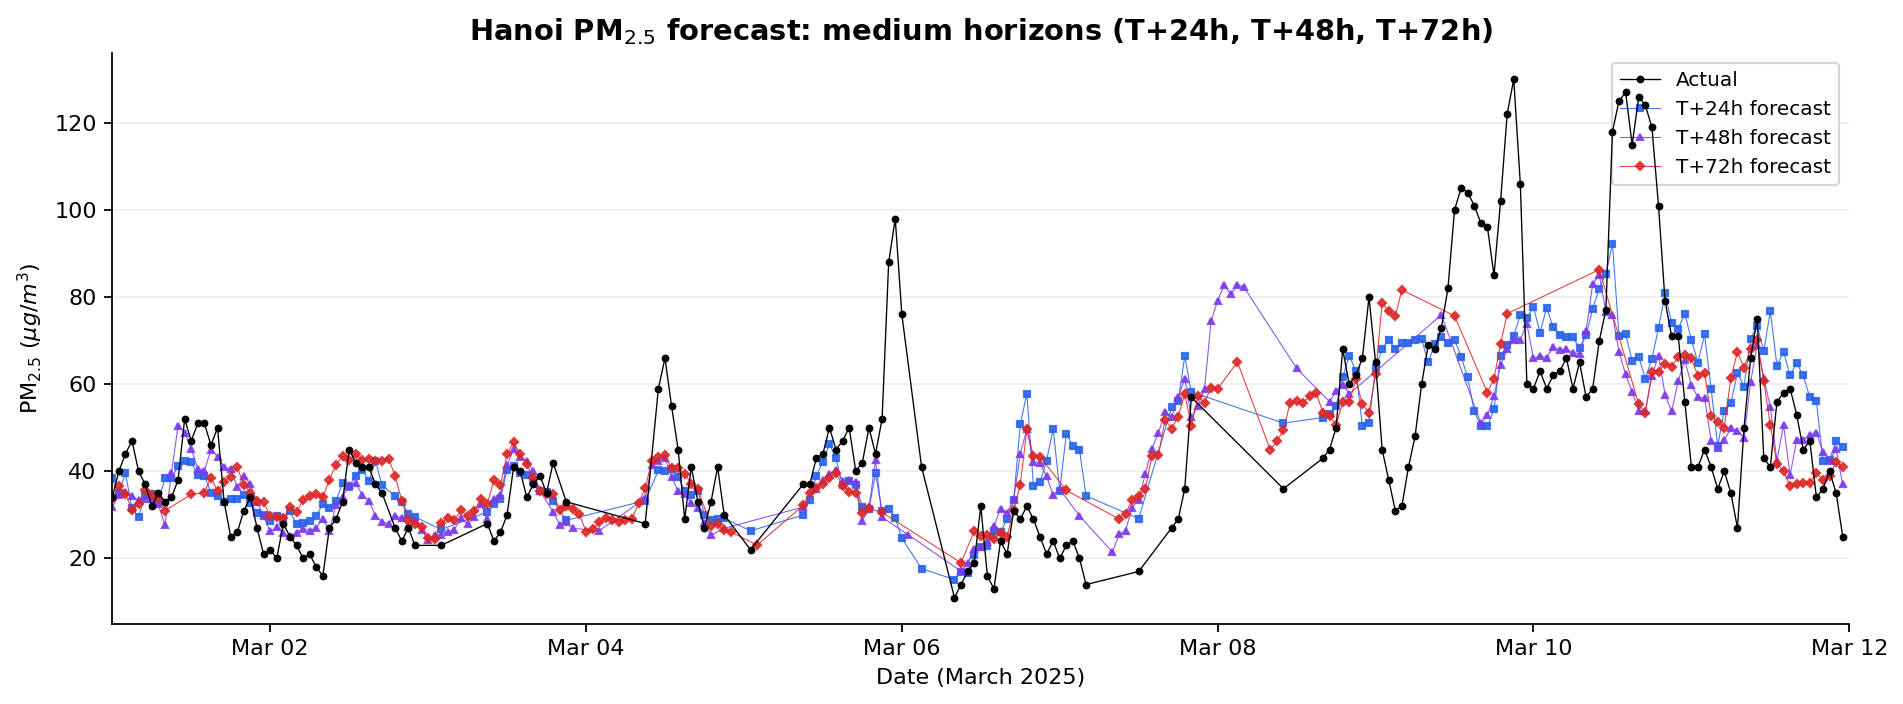
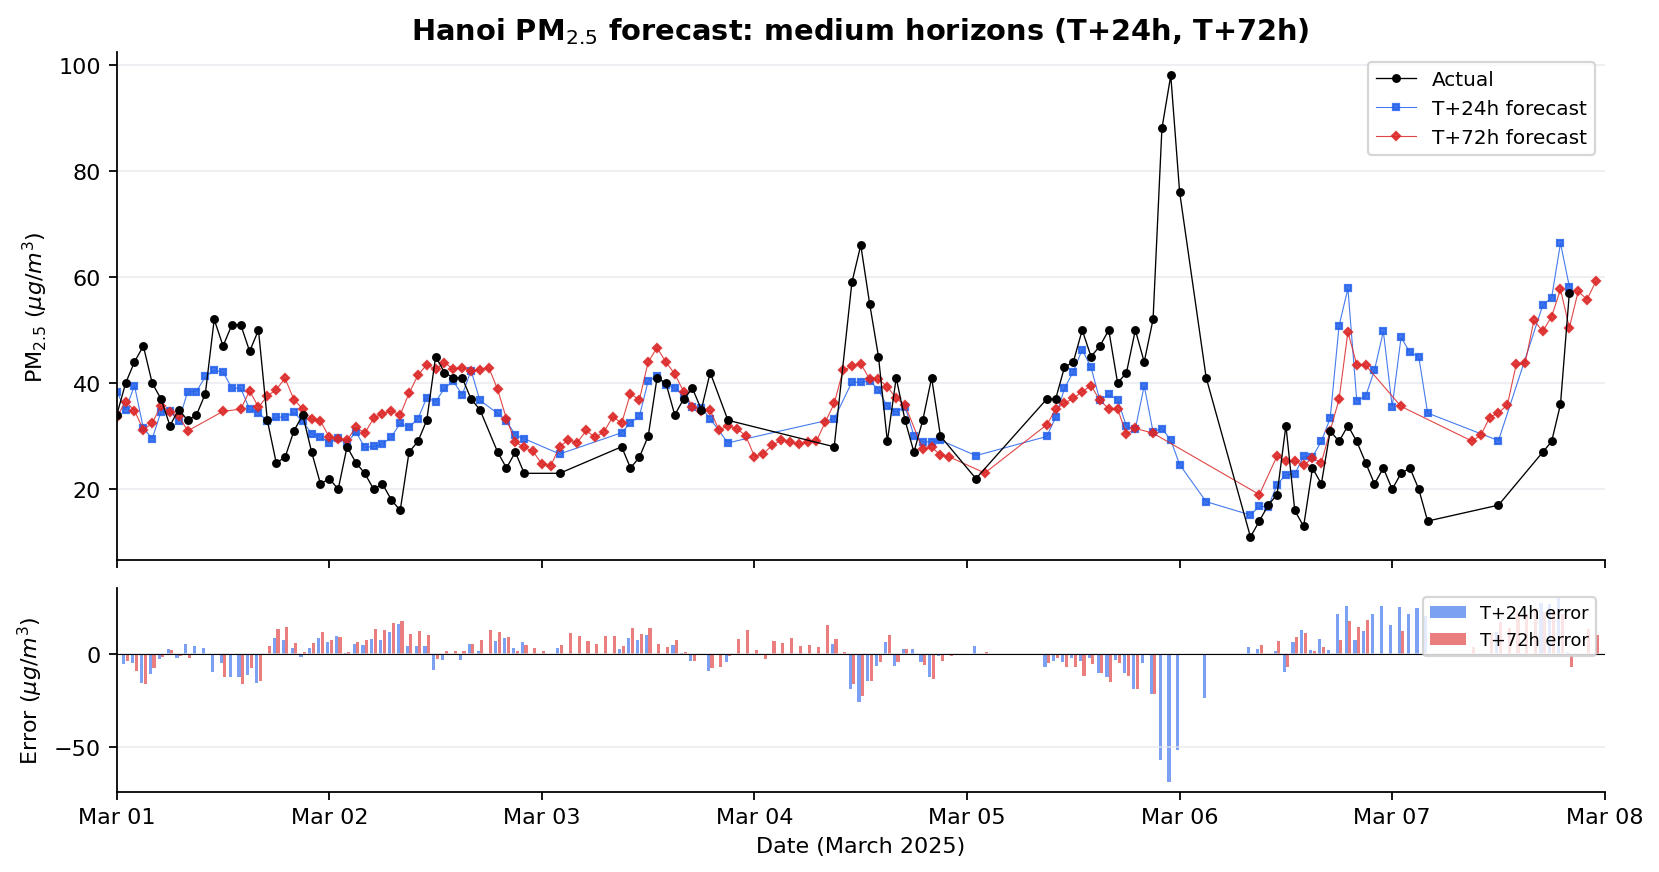
Redesign forecast charts: 1-week window with error bars
- Narrowed to March 1–8 for clarity
- Short: T+1h and T+12h only
- Medium: T+24h and T+72h only
- Added bottom panel showing hourly prediction error as bars
- Markers with thin connecting lines for discrete measurements

diff --git a/scripts/generate_forecast_comparison.py b/scripts/generate_forecast_comparison.py
@@ -36,10 +36,10 @@ DATA_ROOT = Path("tmp/air-quality-analysis-upstream/data")
 OUT_DIR = Path("assets/images/research")
 
 PLOT_START = "2025-03-01"
-PLOT_END = "2025-03-12"
+PLOT_END = "2025-03-08"
 
-SHORT_HORIZONS = [1, 6, 12]
-MEDIUM_HORIZONS = [24, 48, 72]
+SHORT_HORIZONS = [1, 12]
+MEDIUM_HORIZONS = [24, 72]
 
 
 def load_data(horizon):
@@ -112,35 +112,58 @@ def train_and_predict(horizon, features):
 
 
 def plot_panel(results, horizons, title, filename):
-    fig, ax = plt.subplots(figsize=(12, 4.5), dpi=160)
+    fig, (ax_main, ax_err) = plt.subplots(
+        nrows=2, ncols=1, figsize=(12, 6), dpi=160,
+        sharex=True, height_ratios=[2.5, 1],
+        gridspec_kw={"hspace": 0.08}
+    )
 
-    # Plot actual (from T+1 since all share same actual)
+    # Top panel: actual vs predicted
     actual_h = min(horizons)
     actual = results[actual_h]
-    ax.plot(actual["target_time"], actual["target_pm25"],
-            color="black", linewidth=0.6, marker="o", markersize=2.5,
-            label="Actual", zorder=10)
+    ax_main.plot(actual["target_time"], actual["target_pm25"],
+                 color="black", linewidth=0.6, marker="o", markersize=3,
+                 label="Actual", zorder=10)
 
-    colors = {1: "#2563eb", 6: "#7c3aed", 12: "#059669",
-              24: "#2563eb", 48: "#7c3aed", 72: "#dc2626"}
-    markers = {1: "s", 6: "^", 12: "D", 24: "s", 48: "^", 72: "D"}
+    colors = {1: "#2563eb", 12: "#059669", 24: "#2563eb", 72: "#dc2626"}
+    markers = {1: "s", 12: "D", 24: "s", 72: "D"}
 
     for h in horizons:
         df = results[h]
-        ax.plot(df["target_time"], df["pred_pm25"],
-                color=colors[h], linewidth=0.5, alpha=0.85,
-                marker=markers[h], markersize=2.5,
-                label=f"T+{h}h forecast")
+        ax_main.plot(df["target_time"], df["pred_pm25"],
+                     color=colors[h], linewidth=0.5, alpha=0.85,
+                     marker=markers[h], markersize=2.5,
+                     label=f"T+{h}h forecast")
 
-    ax.set_title(title, fontsize=13, weight="bold")
-    ax.set_ylabel(r"PM$_{2.5}$ ($\mu g/m^3$)")
-    ax.set_xlabel("Date (March 2025)")
-    ax.xaxis.set_major_formatter(mdates.DateFormatter("%b %d"))
-    ax.xaxis.set_major_locator(mdates.DayLocator(interval=2))
-    ax.legend(loc="upper right", frameon=True, fontsize=9)
-    ax.grid(axis="y", color="#e5e7eb", alpha=0.7)
-    ax.spines[["top", "right"]].set_visible(False)
-    ax.set_xlim(pd.Timestamp(PLOT_START), pd.Timestamp(PLOT_END))
+    ax_main.set_title(title, fontsize=13, weight="bold")
+    ax_main.set_ylabel(r"PM$_{2.5}$ ($\mu g/m^3$)")
+    ax_main.legend(loc="upper right", frameon=True, fontsize=9)
+    ax_main.grid(axis="y", color="#e5e7eb", alpha=0.7)
+    ax_main.spines[["top", "right"]].set_visible(False)
+
+    # Bottom panel: error bars (predicted - actual)
+    bar_width = pd.Timedelta(hours=0.35)
+    offsets = {h: i for i, h in enumerate(horizons)}
+    n = len(horizons)
+
+    for h in horizons:
+        df = results[h].copy()
+        df["error"] = df["pred_pm25"] - df["target_pm25"]
+        offset = pd.Timedelta(hours=(offsets[h] - (n - 1) / 2) * 0.4)
+        times = df["target_time"] + offset
+        bar_colors = [colors[h] if e >= 0 else "#f87171" for e in df["error"]]
+        ax_err.bar(times, df["error"], width=bar_width,
+                   color=colors[h], alpha=0.6, label=f"T+{h}h error")
+
+    ax_err.axhline(0, color="black", linewidth=0.5)
+    ax_err.set_ylabel(r"Error ($\mu g/m^3$)")
+    ax_err.set_xlabel("Date (March 2025)")
+    ax_err.xaxis.set_major_formatter(mdates.DateFormatter("%b %d"))
+    ax_err.xaxis.set_major_locator(mdates.DayLocator(interval=1))
+    ax_err.legend(loc="upper right", frameon=True, fontsize=8)
+    ax_err.grid(axis="y", color="#e5e7eb", alpha=0.7)
+    ax_err.spines[["top", "right"]].set_visible(False)
+    ax_err.set_xlim(pd.Timestamp(PLOT_START), pd.Timestamp(PLOT_END))
 
     fig.tight_layout()
     out_path = OUT_DIR / filename
@@ -166,12 +189,12 @@ def main():
 
     print("\nGenerating short-horizon chart...")
     plot_panel(results, SHORT_HORIZONS,
-              r"Hanoi PM$_{2.5}$ forecast: short horizons (T+1h, T+6h, T+12h)",
+              r"Hanoi PM$_{2.5}$ forecast: short horizons (T+1h, T+12h)",
               "2026-forecast-short-horizon.png")
 
     print("Generating medium-horizon chart...")
     plot_panel(results, MEDIUM_HORIZONS,
-              r"Hanoi PM$_{2.5}$ forecast: medium horizons (T+24h, T+48h, T+72h)",
+              r"Hanoi PM$_{2.5}$ forecast: medium horizons (T+24h, T+72h)",
               "2026-forecast-medium-horizon.png")
 
     print("\n" + "=" * 60)

diff --git a/docs/research/hanoi-pm25-forecasting-experiments-2026.md b/docs/research/hanoi-pm25-forecasting-experiments-2026.md
@@ -10,10 +10,10 @@ description: "A 2026 single-station forecasting study for Hanoi PM$\_{2.5}$ usin
 # Hanoi PM$\_{2.5}$ Forecasting Experiments (2026)
 
 ![Hanoi PM2.5 forecast short horizons](/assets/images/research/2026-forecast-short-horizon.png)
-*Short-horizon forecasts (T+1h, T+6h, T+12h) vs actual PM$\_{2.5}$ for a 12-day window in March 2025.*
+*Short-horizon forecasts (T+1h, T+12h) vs actual PM$\_{2.5}$, 1–8 March 2025. Bottom panel shows prediction error per hour.*
 
 ![Hanoi PM2.5 forecast medium horizons](/assets/images/research/2026-forecast-medium-horizon.png)
-*Medium-horizon forecasts (T+24h, T+48h, T+72h) vs actual. Longer lead times show increasing divergence from observations.*
+*Medium-horizon forecasts (T+24h, T+72h) vs actual. Bottom panel shows how error grows with lead time.*
 
 {: .note }
 This page adapts a June 2026 research writeup into site format for local Jekyll publishing. The underlying study evaluates single-station PM$\_{2.5}$ forecasting for Hanoi across six lead times using hourly data from 2015-01-01 through 2025-04-09.